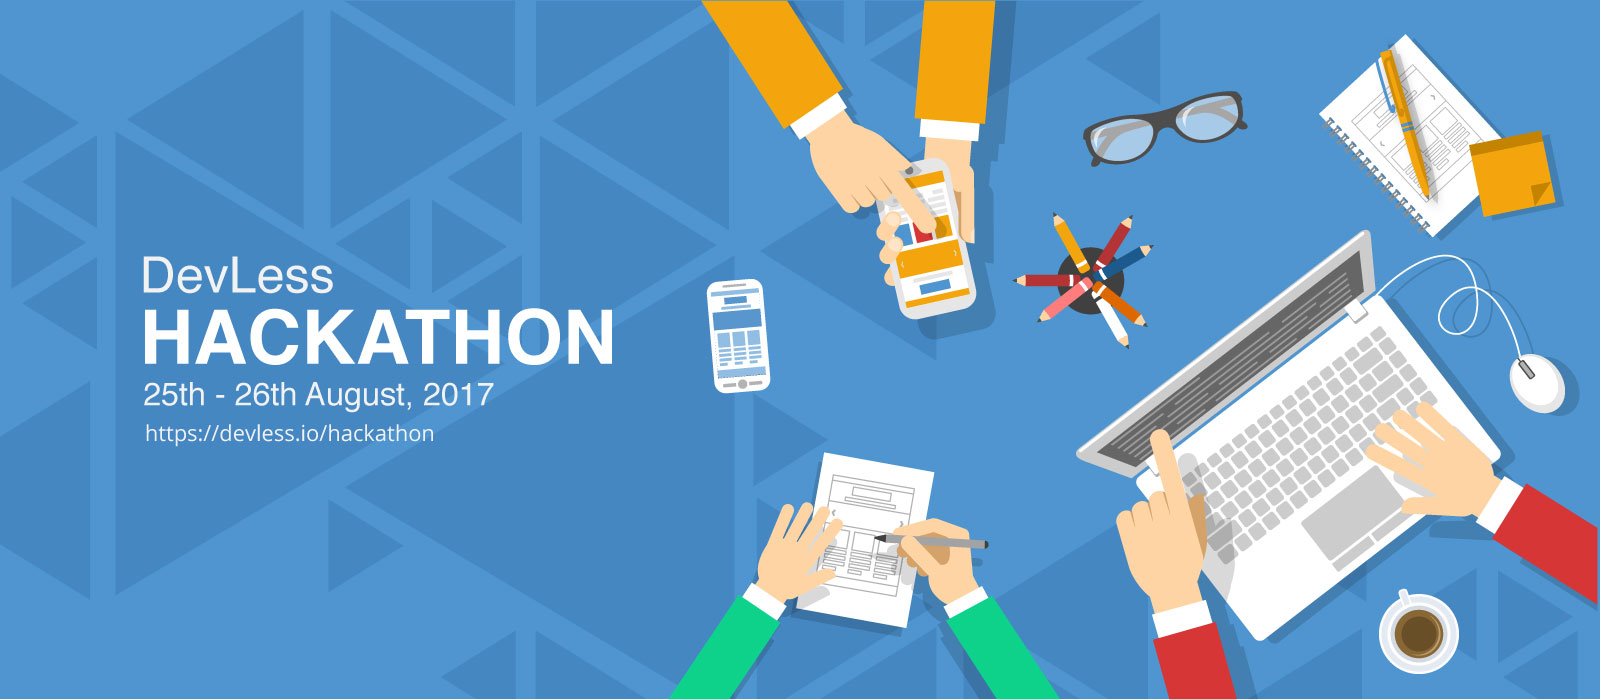
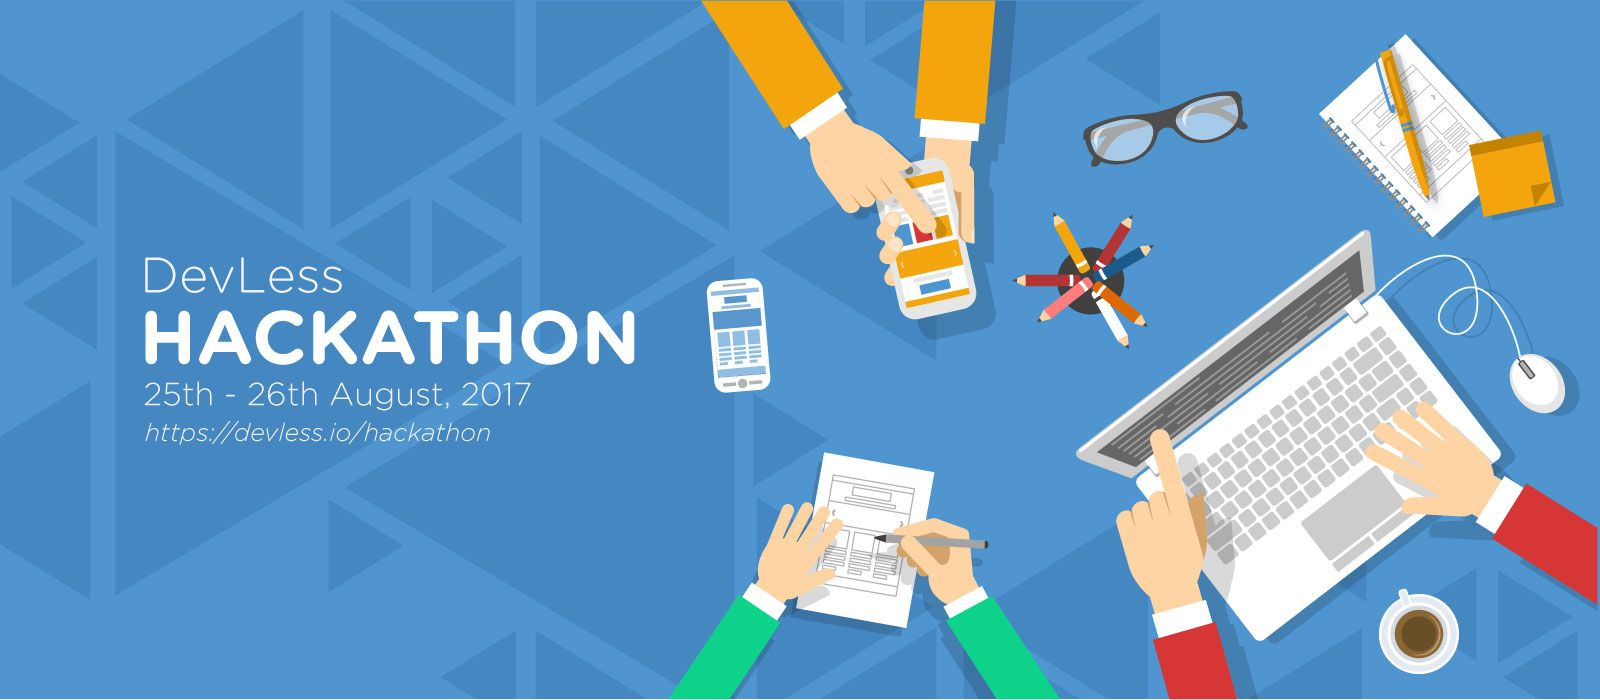
optimized image to load faster

diff --git a/hackathon/index.html b/hackathon/index.html
@@ -165,74 +165,7 @@
 			<div class="clearfix"> </div>
 		</div>
 	</div>
-	<!-- banner -->
-	<!-- <div class="banner-silder">
-		<div id="JiSlider" class="jislider">
-			<ul>
-				<li>
-					<div class="w3layouts-banner-top" >
-
-						<div class="container" >
-							<div class="agileits-banner-info">
-
-								<h3>Develop an idea quickly.</h3>
-								<p>Do you have a brilliant idea but you just don’t know where to start?  DevLess hackathon is giving you the opportunity to make your idea a reality in just two days.</p>
-								<div class="more">
-									<a href="#" class="hvr-shutter-in-vertical register">Register Now <i class="fa fa-long-arrow-right" aria-hidden="true"></i></a>
-								</div>
-							</div>
-						</div>
-					</div>
-				</li>
-				<li>
-					<div class="w3layouts-banner-top">
-
-						<div class="container">
-							<div class="agileits-banner-info">
-
-								<h3>Automate your processes. </h3>
-								<p>Are you business operations clumsy? You would like to automate the processes? Come to the DevLess hackathon and meet bring minds that help you out with your problems.</p>
-								<div class="more">
-									<a href="#" class="hvr-shutter-in-vertical register">Let's work together <i class="fa fa-long-arrow-right" aria-hidden="true"></i></a>
-								</div>
-							</div>
-						</div>
-					</div>
-				</li>
-				<li>
-					<div class="w3layouts-banner-top w3layouts-banner-top1" >
-						<div class="container">
-							<div class="agileits-banner-info">
-
-								<h3>Find a technical co-founder.</h3>
-								<p>Come and that one person you’ve been looking for with the necessary skills to to develop your ideas and bring them to life. </p>
-								<div class="more">
-									<a href="#" class="hvr-shutter-in-vertical register">Register Now <i class="fa fa-long-arrow-right" aria-hidden="true"></i></a>
-								</div>
-							</div>
-						</div>
-					</div>
-				</li>
-				<li>
-					<div class="w3layouts-banner-top w3layouts-banner-top2">
-						<div class="container">
-							<div class="agileits-banner-info">
-
-								<h3>Rapid prototype a weekend hobby. </h3>
-								<p>DevLess hackathon is giving you the opportunity to test your ideas and to help you draw a conclusion on its feasibility.</p>
-								<div class="more">
-									<a href="#" class="hvr-shutter-in-vertical register">Register Now <i class="fa fa-long-arrow-right" aria-hidden="true"></i></a>
-								</div>
-							</div>
-
-						</div>
-					</div>
-				</li>
-
-			</ul>
-		</div>
-	</div> -->
-
+	
 	<!-- //banner -->
 
 	<div>
@@ -445,17 +378,7 @@
 	<!-- start-smoth-scrolling -->
 	<!-- js -->
 	<script type="text/javascript" src="/hackathon/js/jquery-2.1.4.min.js"></script>
-	<!-- //js -->
-	<!-- <script src="js/JiSlider.js"></script> -->
-	<!-- <script>
-		$(window).load(function () {
-			$('#JiSlider').JiSlider({
-				color: '#fff',
-				start: 3,
-				reverse: true
-			}).addClass('ff')
-		})
-	</script> -->
+	
 	<script type="text/javascript">
 		var _gaq = _gaq || [];
 		_gaq.push(['_setAccount', 'UA-36251023-1']);
